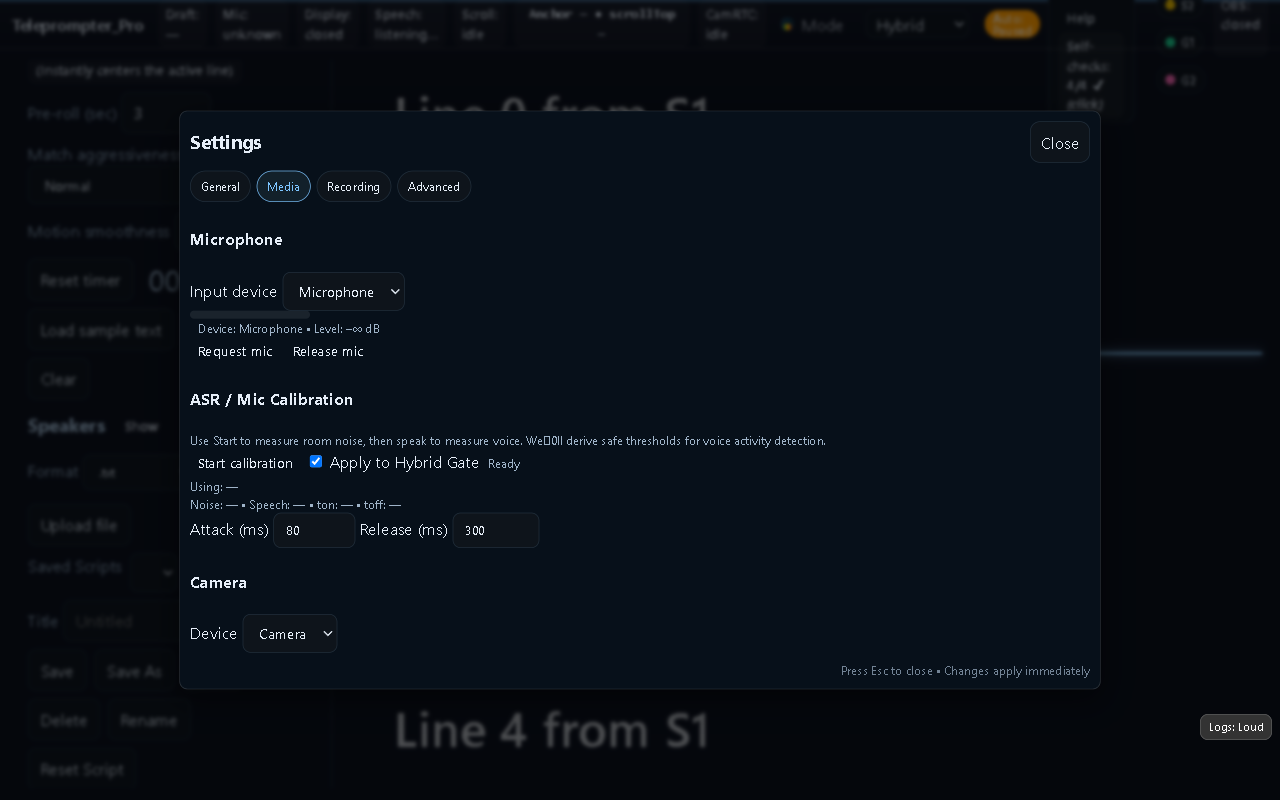
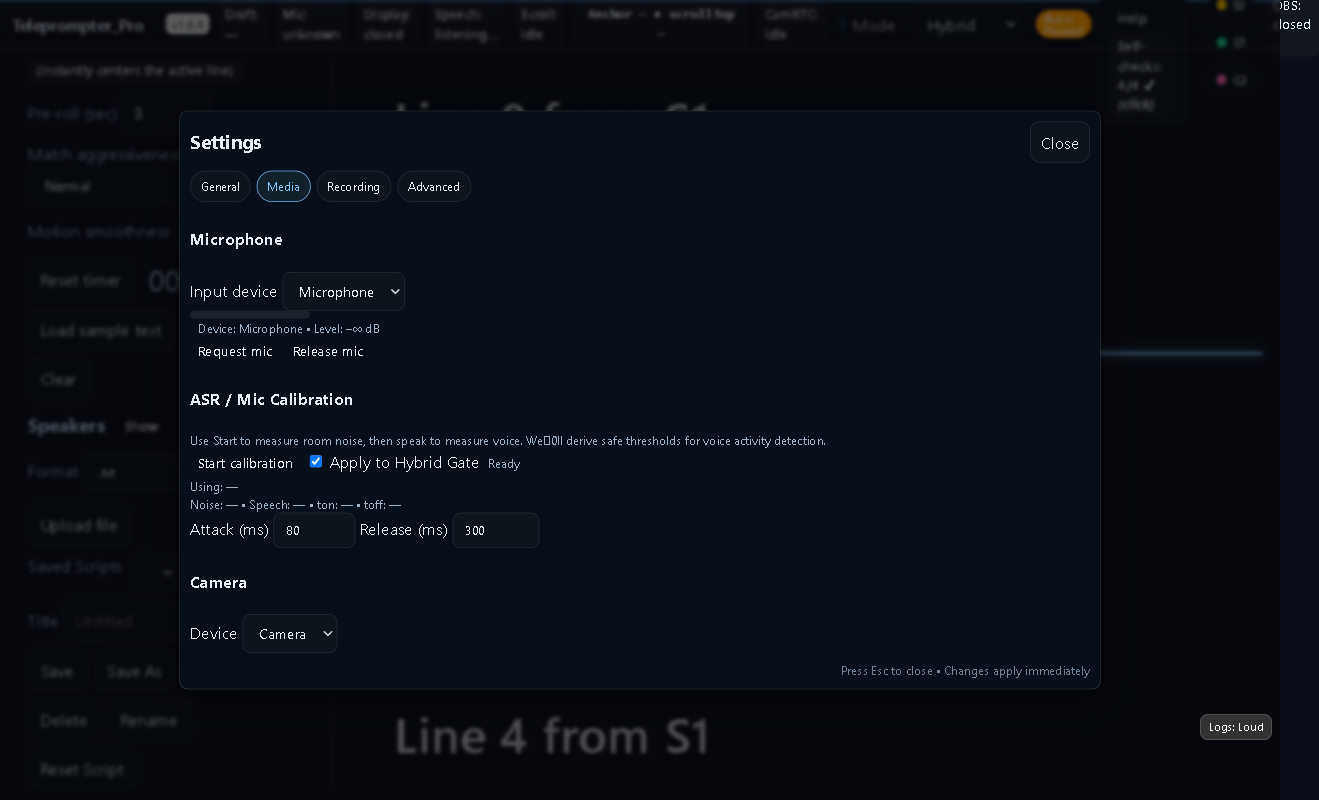
feat(ui-crawl): capture and validate app version badge against package.json

diff --git a/tools/validate_ui_crawl.js b/tools/validate_ui_crawl.js
@@ -155,6 +155,23 @@ if (problemEntries.length) {
   console.log('PASS console — no failing console entries detected');
 }
 
+// Version badge must match package.json version (if present)
+try {
+  const pkg = require('../package.json');
+  if (report.appVersionText) {
+    if (!String(report.appVersionText).includes(pkg.version)) {
+      console.error(`FAIL version-badge — page shows "${report.appVersionText}" but package.json is "${pkg.version}"`);
+      allOk = false;
+    } else {
+      console.log(`PASS version-badge — ${report.appVersionText}`);
+    }
+  } else {
+    console.warn('WARN version-badge — #appVersion not found in crawl output');
+  }
+} catch (e) {
+  console.warn('WARN version-badge check failed:', String(e && e.message || e));
+}
+
 if (!allOk) {
   console.error('\nOne or more required UI controls or checks failed.');
   process.exit(1);

diff --git a/tools/ui_crawl.js b/tools/ui_crawl.js
@@ -571,6 +571,11 @@ const cp = require('child_process');
     } catch (e) {
       out.notes.push('probes failed: ' + String(e && e.message || e));
     }
+    // Capture visible app version badge text if present
+    try {
+      const vtxt = await page.$eval('#appVersion', (el) => (el && el.textContent ? el.textContent : ''));
+      if (vtxt) out.appVersionText = String(vtxt).trim();
+    } catch {}
     // Embed build metadata
     try {
       out.meta.build = {
